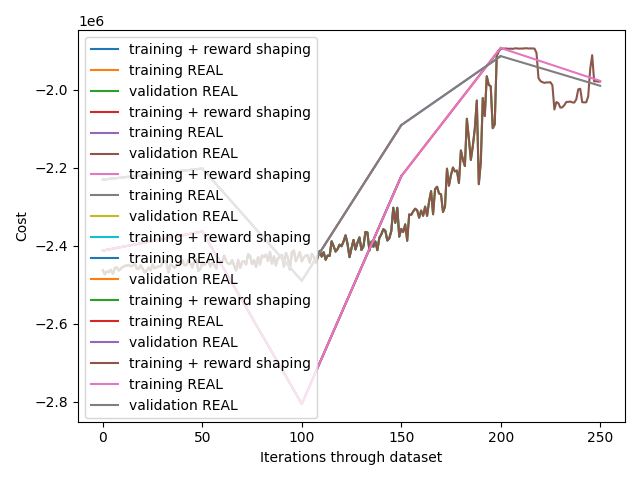
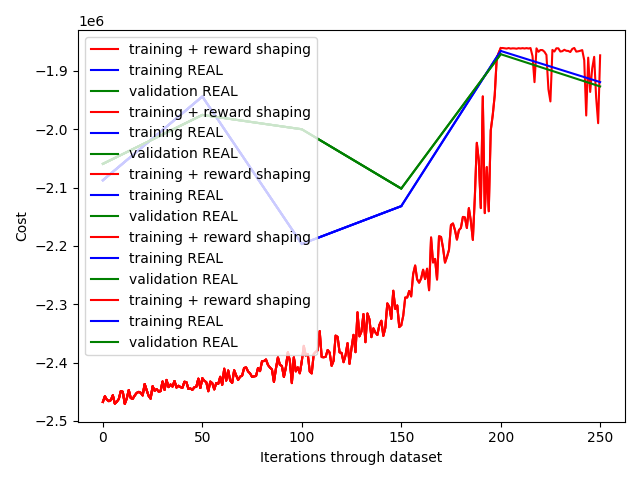
3 nice working Q-tables

diff --git a/main.py b/main.py
@@ -4,8 +4,9 @@ import argparse
 from utils import preprocess_state
 from agents import HourAgent, WeekdayAgent, Average, AverageHour, QAgent
 import os
+import re
 
-def main(path_to_dataset:str, PRINT:bool = False, agent_params:list|bool = False, retACTIONS: bool = False, 
+def main(path_to_dataset:str, retrain:bool = False, PRINT:bool = False, agent_params:list|bool = False, retACTIONS: bool = False, 
          Agent:object = QAgent) -> float:
     # 1) Prepare / train agent
     # hardcoded agent by hour
@@ -17,15 +18,25 @@ def main(path_to_dataset:str, PRINT:bool = False, agent_params:list|bool = False
     
     # agent = HourAgent()
     # agent = WeekdayAgent()
-
+    # Function to extract the BF (best fitness) number
+    def extract_bf_number(file_name):
+        match = re.search(r"BF(-?\d+\.?\d*)", file_name)
+        if match:
+            return float(match.group(1))  # Convert the number to float
+        return float('-inf')  # Return negative infinity if no match is found
 
     if Agent == QAgent:
         Qtables = [file for file in os.listdir() if file.startswith('Qtable')]
-        if len(Qtables) > 0:
-            agent = Agent(Qtable_dir = Qtables[0])
-        else:
+        if len(Qtables) == 0 or retrain == True:
             agent = Agent()
             QTABLE = agent.train(dataset = 'train.xlsx')
+        
+        else:
+            # Find the file with the highest BF number
+            highest_bf_file = max(Qtables, key=extract_bf_number)
+            print(f'Using this Qtable: {highest_bf_file}')
+            agent = Agent(Qtable_dir = highest_bf_file)
+            
     
     else:
         agent = Agent()
@@ -80,9 +91,11 @@ def main(path_to_dataset:str, PRINT:bool = False, agent_params:list|bool = False
 if __name__ == '__main__':
     args = argparse.ArgumentParser()
     args.add_argument('--path', type=str, default='validate.xlsx')
+    args.add_argument('--retrain', type=bool, default=False)
     args = args.parse_args()
 
     np.set_printoptions(suppress=True, precision=2)
     path_to_dataset = args.path
+    reTRAIN = args.retrain
     
-    main(path_to_dataset=path_to_dataset)
+    main(path_to_dataset=path_to_dataset, retrain=reTRAIN)

diff --git a/agents.py b/agents.py
@@ -175,11 +175,11 @@ class QAgent:
 
         # Learning rate
         self.learning_rate_range = [0.1, 0.001] # big fluctuations in environment, use SMALL  learning rate
-        self.lr_decay = 400
+        self.lr_decay = 450
 
         # Epsilon
         # after 2000 - 5000 episodes, exploit
-        self.epsilon_decay = 200
+        self.epsilon_decay = 300
         # range of epsilon
         # start always exploring  100 % time end up exploring only 5 - 10 % of time
         self.epsilon_range = [1, .001] 
@@ -198,7 +198,7 @@ class QAgent:
 
         # morning (1-9), lunchtime (10 - 13),  afternoon (14 - 17), evening (18 - 21), night (22 - 24)
         self.hours = array([9,14,18,22])
-        self.storage = linspace(10,170, 17)
+        self.storage = array([40, 80, 120, 150])#linspace(10,170, 17) # [40, 80, 120, 150]
         self.actions = array([-1,0,1])
         
         # above 3 std, below 3 std, within 3 std
@@ -312,7 +312,7 @@ class QAgent:
 
     # TODO 1: reward shaping
     # TODO 2: experience buffer & transition from short to long-term strategies
-    def train(self, dataset:str, simulations:int = 500) -> ndarray:
+    def train(self, dataset:str, simulations:int = 600) -> ndarray:
         ''''
         Initial (intended) version: 
             -> View the whole train dataset as 1 long episode
@@ -450,7 +450,7 @@ class QAgent:
 
         print('Training done!')
 
-        save(f'Qtable_eps_decay{self.epsilon_decay}_BF{round(best_fit / 1e6, 2)}.npy', best_QT)
+        save(f'Qtable_eps_decay{self.epsilon_decay}_BF{round(best_fit / 1e6, 3)}.npy', best_QT)
         
         return best_QT
 
